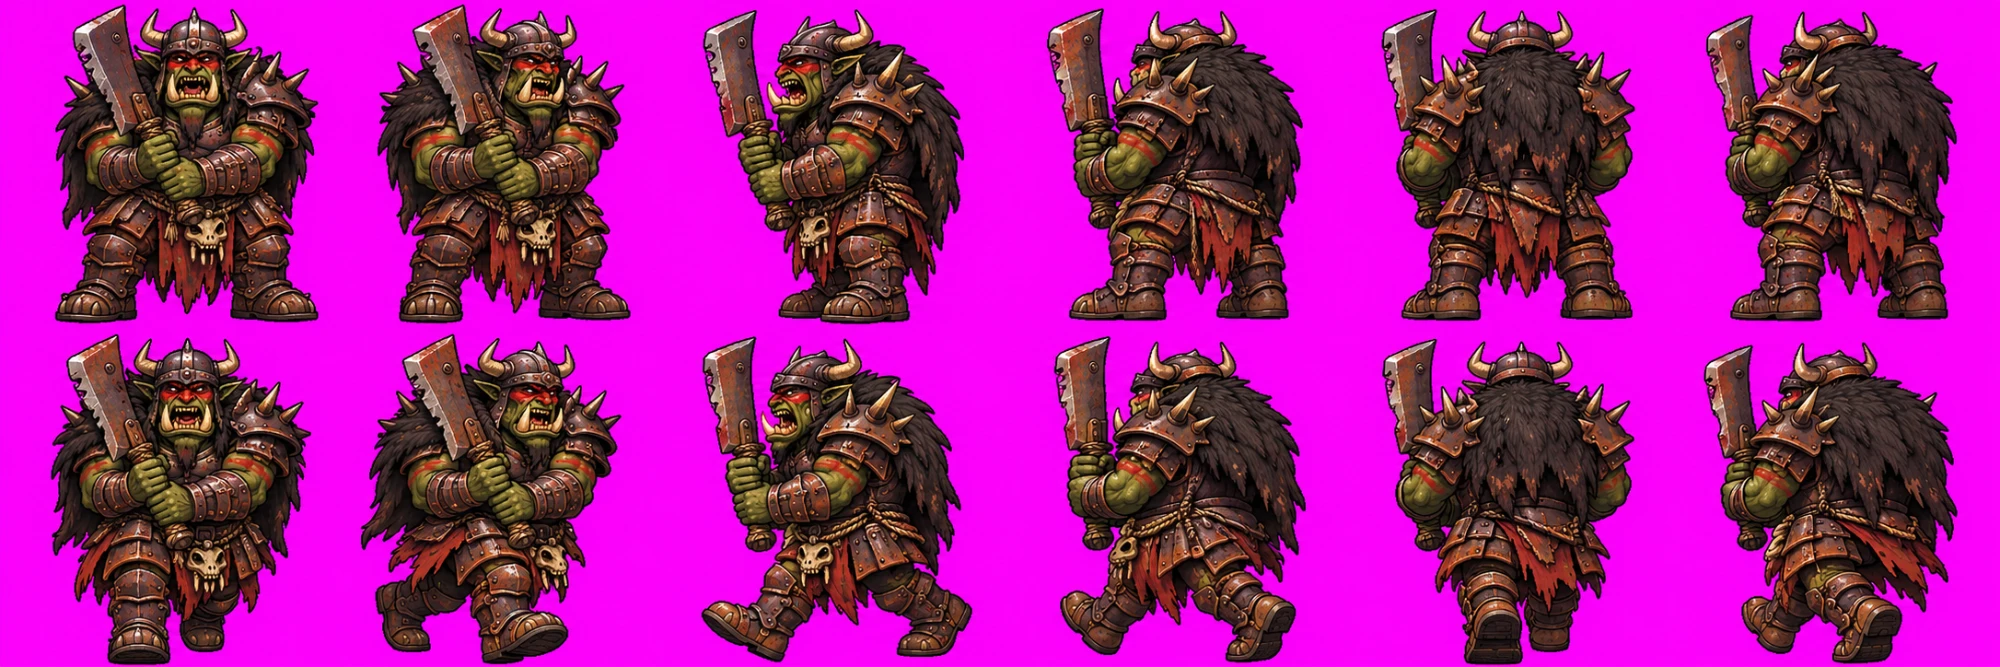
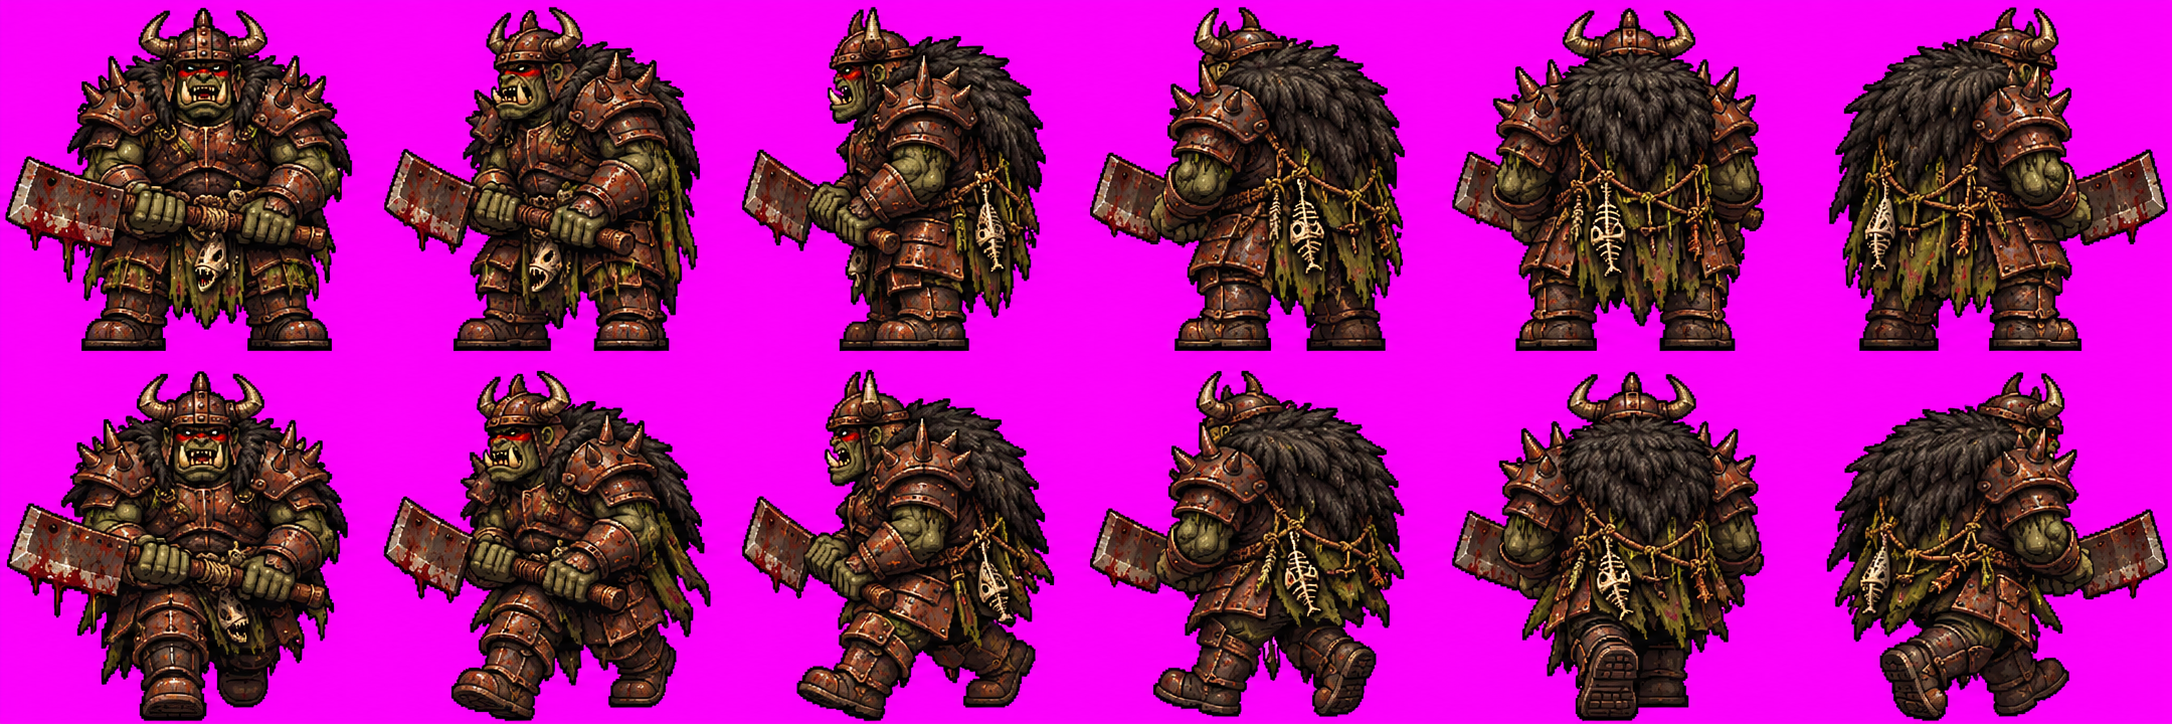
Chefe de Guerra Orc com folhas A, B e C novas: Investida e Golpe Giratório desenhados
- docs/arte/pantano-do-kosaradius/orcWarlord-{A,B,C}.png: personagem refeito com as três folhas em sequência na
  mesma conversa do ChatGPT (elmo de chifres e cutelo retangular iguais nas três).
- kosaradiusSprites.py lê a folha C (4 quadros por linha) depois da B.
- kosaradiusArt.ts: com a folha C, a 1ª habilidade (C_ROWS) toca o especial e a 2ª o clipe novo skill.
- bestiary.ts, textures.ts e DungeonScene.ts: clipe a mais skill (2ª habilidade desenhada), no ritmo do especial;
  sem ele, cai no especial.

Claude-Session: https://claude.ai/code/session_017wBqbJSy8TBkLLoFPG4PNW

diff --git a/apps/client/src/art/proto/kosaradiusArt.ts b/apps/client/src/art/proto/kosaradiusArt.ts
@@ -1,5 +1,6 @@
 import type { MonsterKind } from "@kusa/shared";
 import { makeCanvas } from "../pixels.ts";
+import type { Clip } from "../rig.ts";
 
 /**
  * Clã do Pântano do Kosaradius (orcs e ogros) da arte nova, a partir das folhas de giro geradas por IA
@@ -8,7 +9,9 @@ import { makeCanvas } from "../pixels.ts";
  * quadros quadrados com os pés a 10 px do fundo: frente, perfil (para a esquerda) e costas, parado e depois andando.
  *
  * Com a folha B (golpe e morte, 8 figuras depois das 6), o golpe e a morte são os desenhados; sem ela, o golpe sai do
- * perfil (o jogo já dá o bote do sprite) e a morte é o tombo de sempre. O especial sai do perfil nos dois casos.
+ * perfil (o jogo já dá o bote do sprite) e a morte é o tombo de sempre. Com a folha C (habilidades, 4 figuras por
+ * linha depois da B, na ordem de `C_ROWS`), a 1ª habilidade é o especial e a 2ª o clipe a mais `skill`; sem ela, o
+ * especial sai do perfil.
  * Monstro sem folha nenhuma fica na arte por código.
  */
 const SHEETS = import.meta.glob<string>("./kosaradius/*.png", { eager: true, import: "default", query: "?url" });
@@ -28,11 +31,23 @@ const CLAN_EXTRA = { idleDown: 4, walkDown: 4, idleUp: 4, walkUp: 4 } as const;
 const CLAN_EXTRA_B = { death: 4, ...CLAN_EXTRA } as const;
 /** Figuras da folha B, depois das 6 da A: 4 do golpe e 4 da morte (`kosaradiusSprites.py`). */
 const B = { attack: 6, death: 10, end: 14 } as const;
+/** Com a folha C: a 2ª habilidade desenhada, depois da frente e das costas. */
+const CLAN_EXTRA_C = { ...CLAN_EXTRA_B, skill: 4 } as const;
+
+/**
+ * Habilidades de cada linha da folha C (`id` em `monsters.ts`), na ordem da folha: a 1ª toca o especial (`cast`) e a
+ * 2ª o clipe `skill`.
+ */
+const C_ROWS: Partial<Record<MonsterKind, [string, string?]>> = {
+  orcWarlord: ["charge", "whirl"],
+};
 
 export interface ClanArt {
   size: number;
   fill: number;
-  extra: typeof CLAN_EXTRA | typeof CLAN_EXTRA_B;
+  extra: typeof CLAN_EXTRA | typeof CLAN_EXTRA_B | typeof CLAN_EXTRA_C;
+  /** Clipe de cada habilidade desenhada na folha C (id → clipe). */
+  strike?: Record<string, Clip | "skill">;
   /** Quadros do jogo: parado, andar, golpe e magia (4 cada) e depois os clipes a mais, na ordem de `CLAN_EXTRA`. */
   frames(): (() => HTMLCanvasElement)[];
   portrait(): HTMLCanvasElement;
@@ -59,6 +74,10 @@ async function loadOne(kind: MonsterKind, url: string): Promise<ClanArt> {
   const s = img.height;
   // Tem a folha B (golpe e morte desenhados)?
   const withB = img.width / s >= B.end;
+  // E a folha C (as habilidades, 4 figuras por linha)?
+  const rowsC = C_ROWS[kind] ?? [];
+  const withC = withB && rowsC.length > 0 && img.width / s >= B.end + 4 * rowsC.length;
+  const C = (row: number) => B.end + 4 * row;
   // Cada figura (com o deslocamento) é uma função só, reaproveitada nos clipes: o jogo guarda cada uma uma vez na
   // memória (`hdStep` em `textures.ts`). Com uma figura por quadro, os 12 do clã passavam de 150 MB e o celular fechava
   // o jogo. Por isso os clipes usam poucas variações.
@@ -88,20 +107,23 @@ async function loadOne(kind: MonsterKind, url: string): Promise<ClanArt> {
   const art: ClanArt = {
     size: s,
     fill: (s - top) / s,
-    extra: withB ? CLAN_EXTRA_B : CLAN_EXTRA,
+    extra: withC && rowsC[1] ? CLAN_EXTRA_C : withB ? CLAN_EXTRA_B : CLAN_EXTRA,
+    strike: withC ? Object.fromEntries(rowsC.flatMap((id, row) => id ? [[id, row === 0 ? "cast" : "skill"]] : [])) : undefined,
     frames: () => [
       ...breathing(F.side),
       ...steps(F.side, F.sideWalk),
       // Golpe: o da folha B; sem ela, avança com a passada e volta (o bote do sprite vem do jogo).
       ...(withB ? run(B.attack) : [at(F.side), at(F.sideWalk, { dx: -8 }), at(F.sideWalk, { dx: -8 }), at(F.side)]),
-      // Especial: o corpo se ergue e volta.
-      at(F.side), at(F.side, { breathe: -0.035, dy: -2 }), at(F.side, { breathe: -0.035, dy: -2 }), at(F.side),
+      // Especial: a 1ª habilidade da folha C; sem ela, o corpo se ergue e volta.
+      ...(withC ? run(C(0)) : [at(F.side), at(F.side, { breathe: -0.035, dy: -2 }), at(F.side, { breathe: -0.035, dy: -2 }), at(F.side)]),
       // A morte desenhada (só com a folha B; sem ela, o jogo tomba o sprite).
       ...(withB ? run(B.death) : []),
       ...breathing(F.front),
       ...steps(F.front, F.frontWalk),
       ...breathing(F.back),
       ...steps(F.back, F.backWalk),
+      // A 2ª habilidade da folha C.
+      ...(withC && rowsC[1] ? run(C(1)) : []),
     ],
     portrait: () => figure(img, s, F.side),
     sheet() {

diff --git a/apps/client/src/art/bestiary.ts b/apps/client/src/art/bestiary.ts
@@ -33,15 +33,19 @@ export interface MonsterAnim {
   fill?: number;
   /**
    * Clipes a mais (arte nova), na folha depois dos de `CLIP_ORDER`, na ordem de `EXTRA_CLIPS`: a morte (o cadáver
-   * toca em vez de tombar) e o parado e o andar de frente (`Down`) e de costas (`Up`), quando o monstro anda na vertical.
+   * toca em vez de tombar), o parado e o andar de frente (`Down`) e de costas (`Up`), quando o monstro anda na vertical,
+   * e a 2ª habilidade desenhada (`skill`, no ritmo do especial).
    */
   extra?: Partial<Record<ExtraClip, number>>;
-  /** Clipe da habilidade (padrão: o golpe; chamar a guarda e sumir: o especial), ou um por habilidade (id → clipe). */
-  strike?: Clip | Record<string, Clip>;
+  /**
+   * Clipe da habilidade (padrão: o golpe; chamar a guarda e sumir: o especial), ou um por habilidade (id → clipe). A
+   * 2ª habilidade desenhada (folha C do clã do Kosaradius) é o clipe a mais `skill`.
+   */
+  strike?: Clip | Record<string, Clip | "skill">;
 }
 
 /** Clipes a mais dos monstros da arte nova (`MonsterAnim.extra`), na ordem da folha. */
-export const EXTRA_CLIPS = ["death", "idleDown", "walkDown", "idleUp", "walkUp"] as const;
+export const EXTRA_CLIPS = ["death", "idleDown", "walkDown", "idleUp", "walkUp", "skill"] as const;
 export type ExtraClip = (typeof EXTRA_CLIPS)[number];
 
 const ANIM_FPS: Record<Clip, number> = { idle: 4, walk: 9, attack: 12, cast: 7 };
@@ -259,7 +263,7 @@ if (protoClan) {
       anim: {
         size: clan.size, sheet: () => clan.sheet(), portrait: () => clan.portrait(), outline: "",
         fps: { idle: 4, walk: 6, attack: 10, cast: 6 }, frames: { idle: 4, walk: 4, attack: 4, cast: 4 }, stride: 2,
-        hd: () => clan.frames(), fill: clan.fill, extra: { ...clan.extra },
+        hd: () => clan.frames(), fill: clan.fill, extra: { ...clan.extra }, strike: clan.strike,
       },
     };
   }

diff --git a/apps/client/src/art/textures.ts b/apps/client/src/art/textures.ts
@@ -229,17 +229,18 @@ function addClips(scene: Phaser.Scene, key: string, anim: MonsterAnim) {
       repeat: clip === "idle" || clip === "walk" ? -1 : 0,
     });
   }
-  // Clipes a mais (arte nova): depois dos de sempre, na ordem de `EXTRA_CLIPS`; a morte no ritmo do golpe e não repete.
+  // Clipes a mais (arte nova): depois dos de sempre, na ordem de `EXTRA_CLIPS`; a morte no ritmo do golpe e a 2ª
+  // habilidade no do especial, e as duas não repetem.
   let start = CLIP_ORDER.reduce((n, c) => n + frames[c], 0);
   for (const clip of EXTRA_CLIPS) {
     const n = anim.extra?.[clip];
     if (!n) continue;
-    const base = clip === "death" ? "attack" : clip.startsWith("walk") ? "walk" : "idle";
+    const base = clip === "death" ? "attack" : clip === "skill" ? "cast" : clip.startsWith("walk") ? "walk" : "idle";
     scene.anims.create({
       key: monsterAnimKey(key, clip),
       frames: Array.from({ length: n }, (_, k) => ({ key, frame: start + k })),
       frameRate: clip === "death" ? anim.fps.attack * 0.7 : anim.fps[base],
-      repeat: clip === "death" ? 0 : -1,
+      repeat: clip === "death" || clip === "skill" ? 0 : -1,
     });
     start += n;
   }

diff --git a/apps/client/src/DungeonScene.ts b/apps/client/src/DungeonScene.ts
@@ -727,11 +727,14 @@ export class DungeonScene extends Phaser.Scene {
   }
 
   /** Monstro animado: toca um clipe que não se repete (golpe, especial) e segura o quadro até ele acabar. */
-  private playClip(unit: Unit, clip: Clip) {
+  private playClip(unit: Unit, clip: Clip | "skill") {
     if (!unit.anim || unit.dead || !unit.texture) return;
+    // A 2ª habilidade desenhada só existe em quem tem folha para ela; sem ela, o especial.
+    if (clip === "skill" && !unit.anim.extra?.skill) clip = "cast";
     unit.sprite.anims.timeScale = 1;
     unit.sprite.play(monsterAnimKey(unit.texture, clip));
-    unit.busyUntil = this.time.now + (unit.sprite.anims.currentAnim?.frames.length ?? 4) / unit.anim.fps[clip] * 1000;
+    const fps = unit.anim.fps[clip === "skill" ? "cast" : clip];
+    unit.busyUntil = this.time.now + (unit.sprite.anims.currentAnim?.frames.length ?? 4) / fps * 1000;
   }
 
   /** Tranco curto do sprite na direção do golpe (ida e volta). */

diff --git a/apps/client/scripts/kosaradiusSprites.py b/apps/client/scripts/kosaradiusSprites.py
@@ -18,6 +18,10 @@ embaixo, em 3/4 de frente para a esquerda. Vai para a mesma escala da A (a figur
 altura da 3/4 de frente parada da A) e entra depois das 6 da A: 4 quadros do golpe (`ATTACK_B`) e 4 da morte
 (`DEATH_B`), 14 figuras no total. `art/proto/kosaradiusArt.ts` monta os clipes.
 
+Folha C (habilidades), se existir (`<kind>-C.png`): uma linha de 6 por habilidade, na ordem de `C_ROWS` em
+`kosaradiusArt.ts`, em 3/4 de frente como a B. Vai para a escala da B (a figura parada do começo de cada linha com a
+altura da parada do golpe) e entra depois da B: 4 quadros por linha (`SKILL_C`).
+
 Uso: python3 apps/client/scripts/kosaradiusSprites.py orcSpearman [--flip | --flip=8,...]
 """
 import sys
@@ -58,6 +62,9 @@ USED = (0, 2, 4, 6, 8, 10)
 # já mostra a parada) e a morte com o golpe recebido, de joelhos, caindo e o corpo no chão.
 ATTACK_B = (1, 2, 3, 4)
 DEATH_B = (6, 8, 9, 11)
+
+# Figuras de cada linha da folha C que vão para o jogo: sem a pose parada do começo e do fim.
+SKILL_C = (1, 2, 3, 4)
 
 
 def place(rgba, fig, scale, flip, cell):
@@ -119,6 +126,17 @@ def build(kind, flip, flip_figs, height, cell):
         figs_b = [f for line in rows_b for f in line]
         cells += [place(b, figs_b[i], scale_b, flip, cell) for i in ATTACK_B + DEATH_B]
         print(f"  folha B: escala {scale_b:.3f} (A {scale:.3f})")
+        src_c = SRC / f"{kind}-C.png"
+        if src_c.exists():
+            c = clean(src_c)
+            rows_c = figures(c)
+            assert all(len(r) == 6 for r in rows_c), f"{kind}-C: esperava linhas de 6, achei {[len(r) for r in rows_c]}"
+            # Cada linha começa na pose parada: na altura da parada do golpe da B.
+            for row in rows_c:
+                start = row[0][0]
+                scale_c = scale_b * (ready[3] - ready[1]) / (start[3] - start[1])
+                cells += [place(c, row[i], scale_c, flip, cell) for i in SKILL_C]
+            print(f"  folha C: {len(rows_c)} linhas")
     sheet = Image.new("RGBA", (cell * len(cells), cell), (0, 0, 0, 0))
     for i, c in enumerate(cells):
         sheet.alpha_composite(c, (i * cell, 0))

diff --git a/docs/arte/pantano-do-kosaradius/README.md b/docs/arte/pantano-do-kosaradius/README.md
@@ -21,7 +21,7 @@ monstro com folha usa a arte nova; sem folha, continua com a arte por código (`
 | Ogro jovem (`ogreYoung`) | ✅ (`--flip=8`: o perfil andando veio para a direita) | ✅ golpe e morte (`ogreYoung-B.png`) |
 | Ogro do Brejo (`ogreBruiser`) | ✅ | ✅ golpe e morte (`ogreBruiser-B.png`) |
 | Ogro Xamã (`ogreShaman`) | ✅ | ✅ golpe e morte (`ogreShaman-B.png`) |
-| Chefe de Guerra Orc (`orcWarlord`) | ✅ | ✅ golpe e morte (`orcWarlord-B.png`) |
+| Chefe de Guerra Orc (`orcWarlord`) | ✅ 2ª versão (A, B e C feitas em sequência na mesma conversa) | ✅ golpe e morte (`orcWarlord-B.png`) |
 | Grumak, o Rei-Ogro (`ogreKing`) | ✅ (2ª versão, com a coroa pequena e torta) | ✅ golpe e morte (`ogreKing-B.png`) |
 
 Folha B (`<kind>-B.png`, 2 linhas × 6: golpe em cima, morte embaixo, em 3/4 de frente): o script põe na escala da A e
@@ -32,8 +32,11 @@ de sempre. O especial sai do perfil nos dois casos.
 O Rei segura o tronco em pé parado e no ombro andando: ele anda só com a figura de andar (`WALK_POSE_ONLY` em
 `kosaradiusArt.ts`), senão o tronco pularia do chão para o ombro a cada passo.
 
-Folha C (`<kind>-C.png`, uma linha por habilidade, 6 quadros, 3/4 de frente): lista de ações e prompts em
-`PROMPTS_FOLHA_C.md`. Ainda não gerada nem lida pelo jogo.
+Folha C (`<kind>-C.png`, uma linha por habilidade, 6 quadros, 3/4 de frente): lista de ações em `PROMPTS_FOLHA_C.md`;
+prompts das folhas A, B e C em sequência em `FOLHAS_ABC_CHATGPT.md` (uma conversa do ChatGPT por inimigo: é o que
+mantém o personagem igual nas três). O script leva 4 quadros de cada linha (`SKILL_C`) e o jogo liga cada habilidade
+ao seu clipe (`C_ROWS` em `kosaradiusArt.ts`): a 1ª é o especial, a 2ª o clipe `skill`. Feita: Chefe de Guerra
+(Investida e Golpe Giratório).
 
 ## Memória no celular
 
